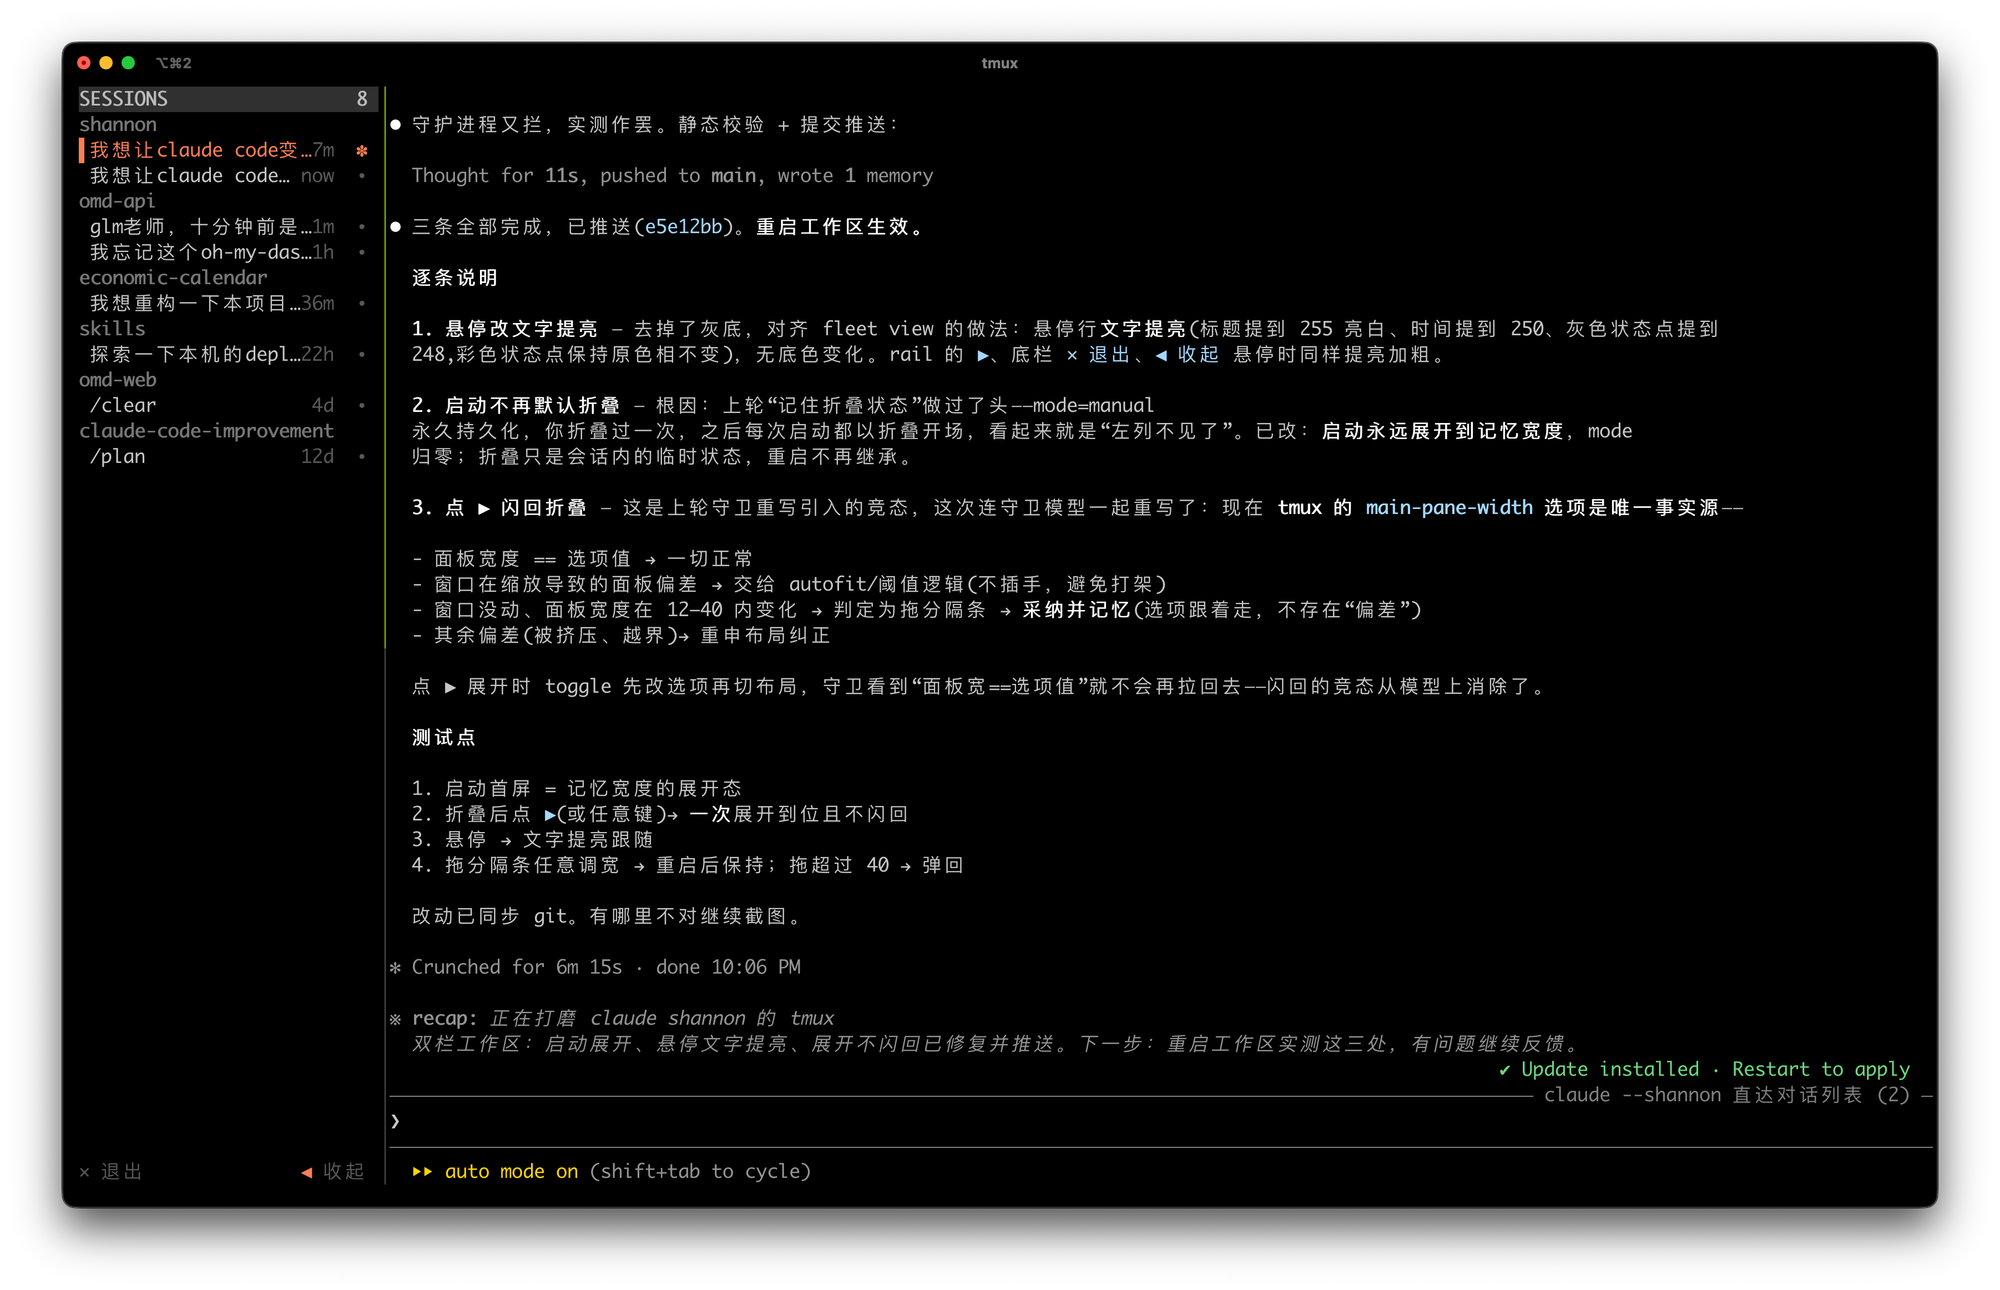
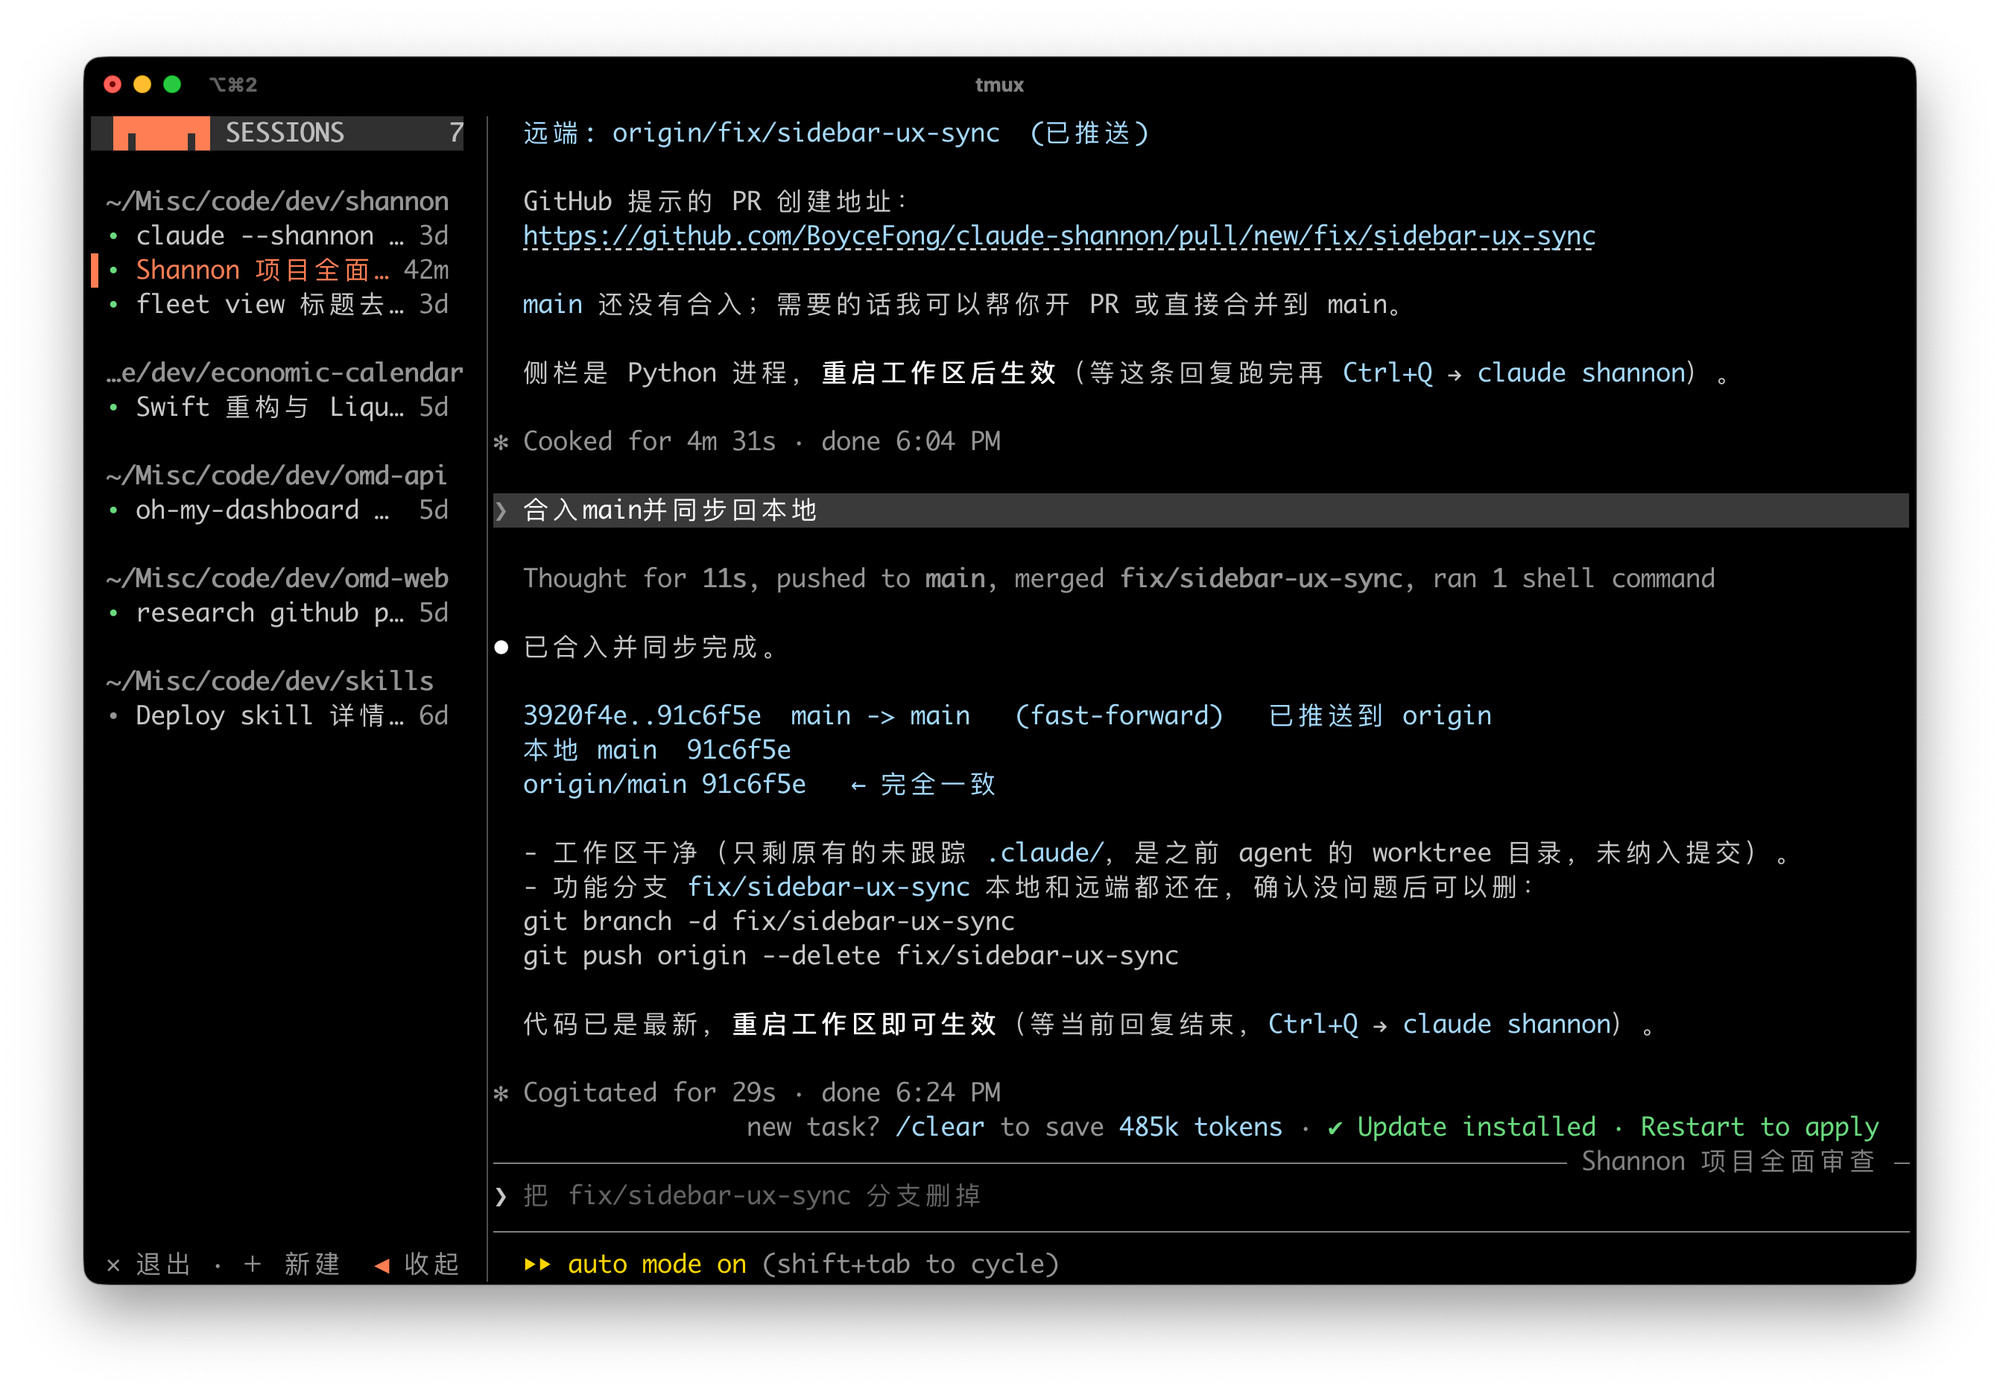
docs: refresh README screenshots

Changed region(s): [[0.0, 0.031, 0.992, 0.9922], [0.527, 0.093, 0.558, 0.124]]

diff --git a/README.md b/README.md
@@ -6,11 +6,11 @@ A tmux workspace that turns [Claude Code](https://docs.anthropic.com/en/docs/cla
 
 ![claude-shannon workspace](docs/images/ui.png)
 
-*Left: every conversation across all your projects, grouped by workspace, with live status dots. Right: Claude Code — the fleet view by default, or any conversation you click, loaded in place.*
+*Left: every session the fleet view knows about, grouped by project path, with live status dots. Right: Claude Code — the fleet view by default, or any conversation you click, loaded in place.*
 
-Collapsed state — the sidebar shrinks to a slim rail; one click on `▶` brings it back:
+The right pane is unmodified Claude Code. A running turn keeps running while you look elsewhere, and the sidebar follows whatever is actually on screen:
 
-![claude-shannon collapsed](docs/images/ui-collapsed.png)
+![claude-shannon right pane](docs/images/ui-right-pane.png)
 
 ## Why
 
